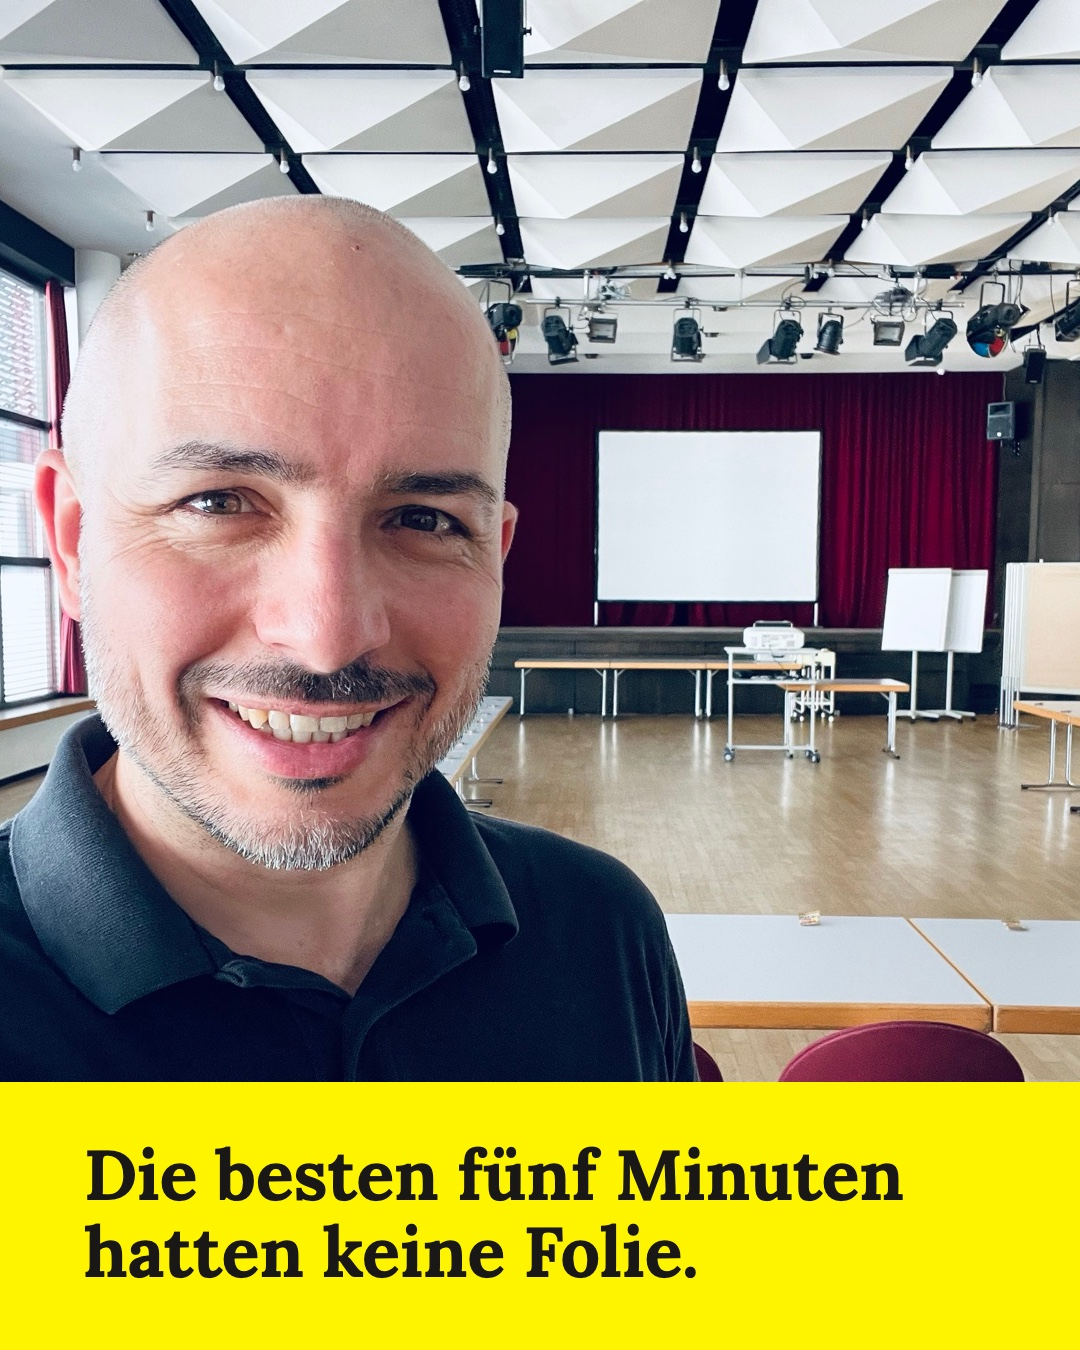
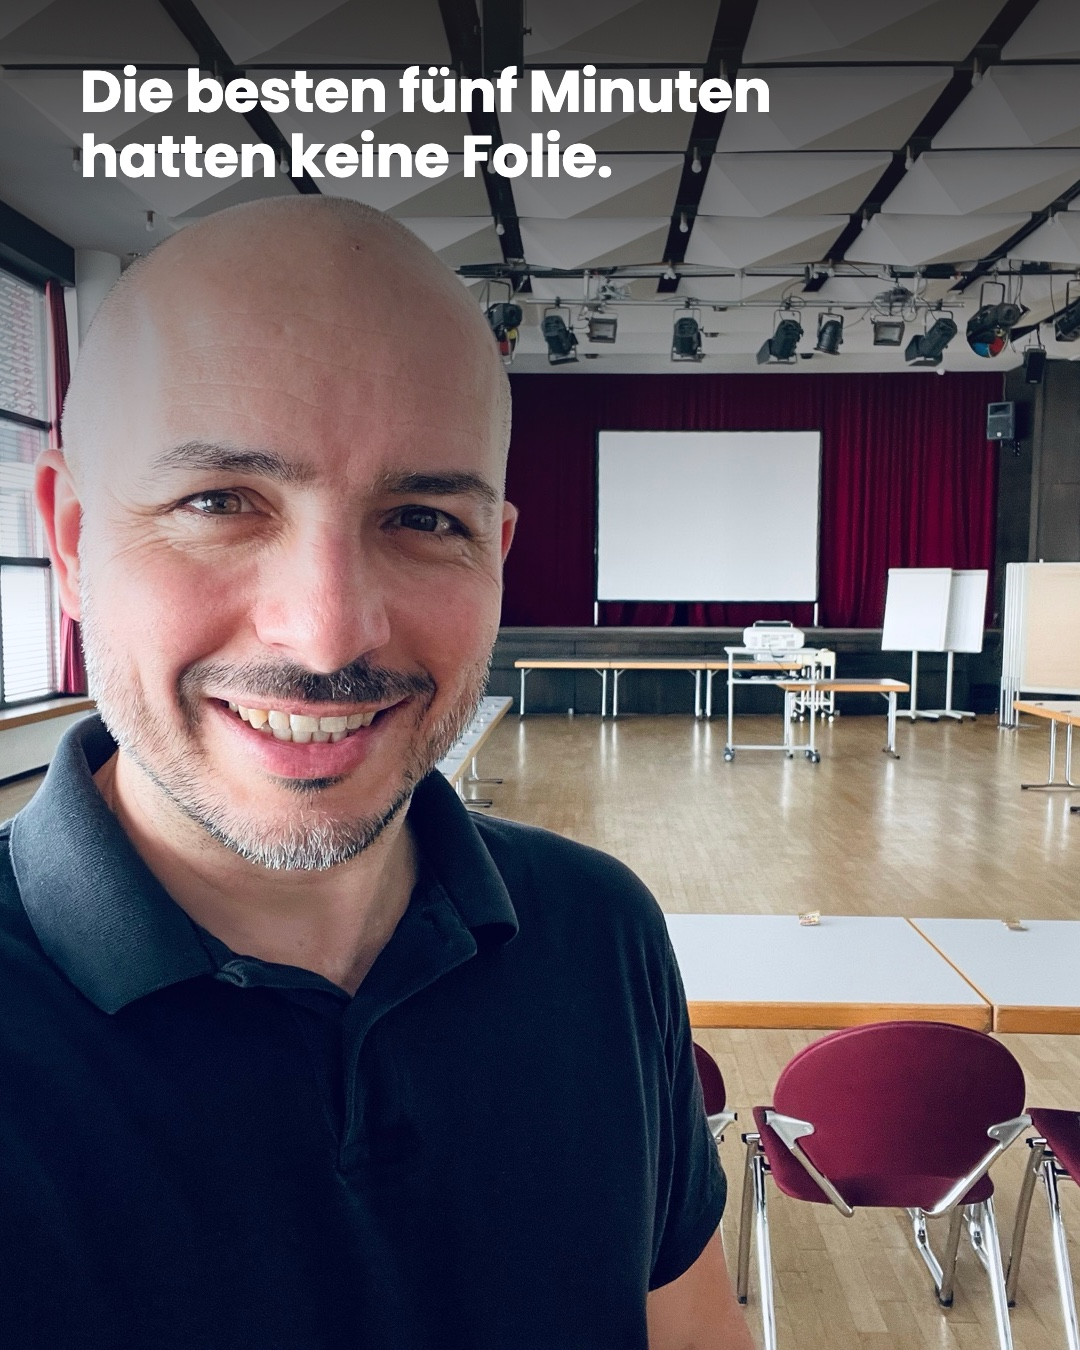
Posting 20.11.: Satz oben statt gelbem Balken

diff --git a/werkzeuge/medienkonzept/postings-vorlage.html b/werkzeuge/medienkonzept/postings-vorlage.html
@@ -1043,7 +1043,8 @@ html, body { width:1080px; background:#fff; }
 
 <section class="p vollbild" id="rp38"><img src="/assets/projekte/medienkonzept/foto-nein.jpg" alt="" style="object-position:12% 50%;"><div class="verlauf" style="height:14%"></div><p class="namezeile" style="color:#d9d5cf">Daniel Ströbel</p></section>
 
-<section class="p foto-voll" id="rp39"><img src="/assets/projekte/medienkonzept/foto-saal.jpg" alt="" style="object-position:46% 50%;"><p class="gelbbalken">Die besten fünf Minuten hatten keine Folie.</p></section>
+<section class="p vollbild" id="rp39"><img src="/assets/projekte/medienkonzept/foto-saal.jpg" alt="" style="object-position:46% 60%;"><div style="position:absolute;inset:0 0 auto 0;height:46%;background:linear-gradient(180deg,rgba(26,24,23,.82),rgba(26,24,23,0))"></div>
+  <p style="position:absolute;left:80px;right:80px;top:60px;font:700 58px/1.12 Poppins,sans-serif;letter-spacing:-.01em;color:#fff">Die besten fünf Minuten<br>hatten keine Folie.</p></section>
 
 <section class="p vollbild" id="rp40"><img src="/assets/projekte/medienkonzept/foto-zeigt.jpg" alt="" style="object-position:62% 50%;"><div class="verlauf" style="height:38%"></div><div class="unten"><p class="satz" style="font-size:78px">Drei Wochen.</p></div></section>
 

diff --git a/werkzeuge/medienkonzept/kw46_47_bilder.py b/werkzeuge/medienkonzept/kw46_47_bilder.py
@@ -22,6 +22,11 @@ def sektionen(NAME, vb, SYS):
     <path d="M760 400 C 820 560, 860 760, 880 1010"/><path d="M846 972 L 882 1020 L 912 966"/></svg>
 </section>""" % (pid, vb(bild, pos), text)
 
+    def satz_oben(pid, bild, pos, satz):
+        # Satz oben in Poppins auf dunklem Verlauf – ohne Markierung, ohne Balken
+        return """<section class="p vollbild" id="%s">%s<div style="position:absolute;inset:0 0 auto 0;height:46%%;background:linear-gradient(180deg,rgba(26,24,23,.82),rgba(26,24,23,0))"></div>
+  <p style="position:absolute;left:80px;right:80px;top:60px;font:700 58px/1.12 Poppins,sans-serif;letter-spacing:-.01em;color:#fff">%s</p></section>""" % (pid, vb(bild, pos), satz)
+
     def pur(pid, bild, pos):
         return '<section class="p vollbild" id="%s">%s</section>' % (pid, vb(bild, pos))
 
@@ -151,7 +156,7 @@ def sektionen(NAME, vb, SYS):
         rp36,
         kritzel("rp37", "foto-konferenztisch.jpg", "30% 50%", "Wo ist der eine Satz?"),  # Kritzelei auf Foto
         """<section class="p vollbild" id="rp38">%s<div class="verlauf" style="height:14%%"></div>%s</section>""" % (vb("foto-nein.jpg", "12% 50%"), weiss_name),
-        balken("rp39", "foto-saal.jpg", "46% 50%", "Die besten fünf Minuten hatten keine Folie."),  # Foto mit gelbem Balken
+        satz_oben("rp39", "foto-saal.jpg", "46% 60%", "Die besten fünf Minuten<br>hatten keine Folie."),  # Satz oben, ohne gelben Balken (Daniel 15.11.2026)
         satz_schlicht("rp40", "foto-zeigt.jpg", "62% 50%", "Drei Wochen."),  # Foto mit Satz, ohne Markierung
         # 23.11. Strategisches Kaffeetrinken – Platzhalterfoto, bis Daniel ein Foto mit Kaffeetasse liefert
         foto("rp42", "foto-buero-polo.jpg", "22% 35%", "Entschieden wird <span class=\"hl\" style=\"color:#1a1817\">vor&nbsp;dem&nbsp;Gremium.</span>", "", 96, "40%"),
